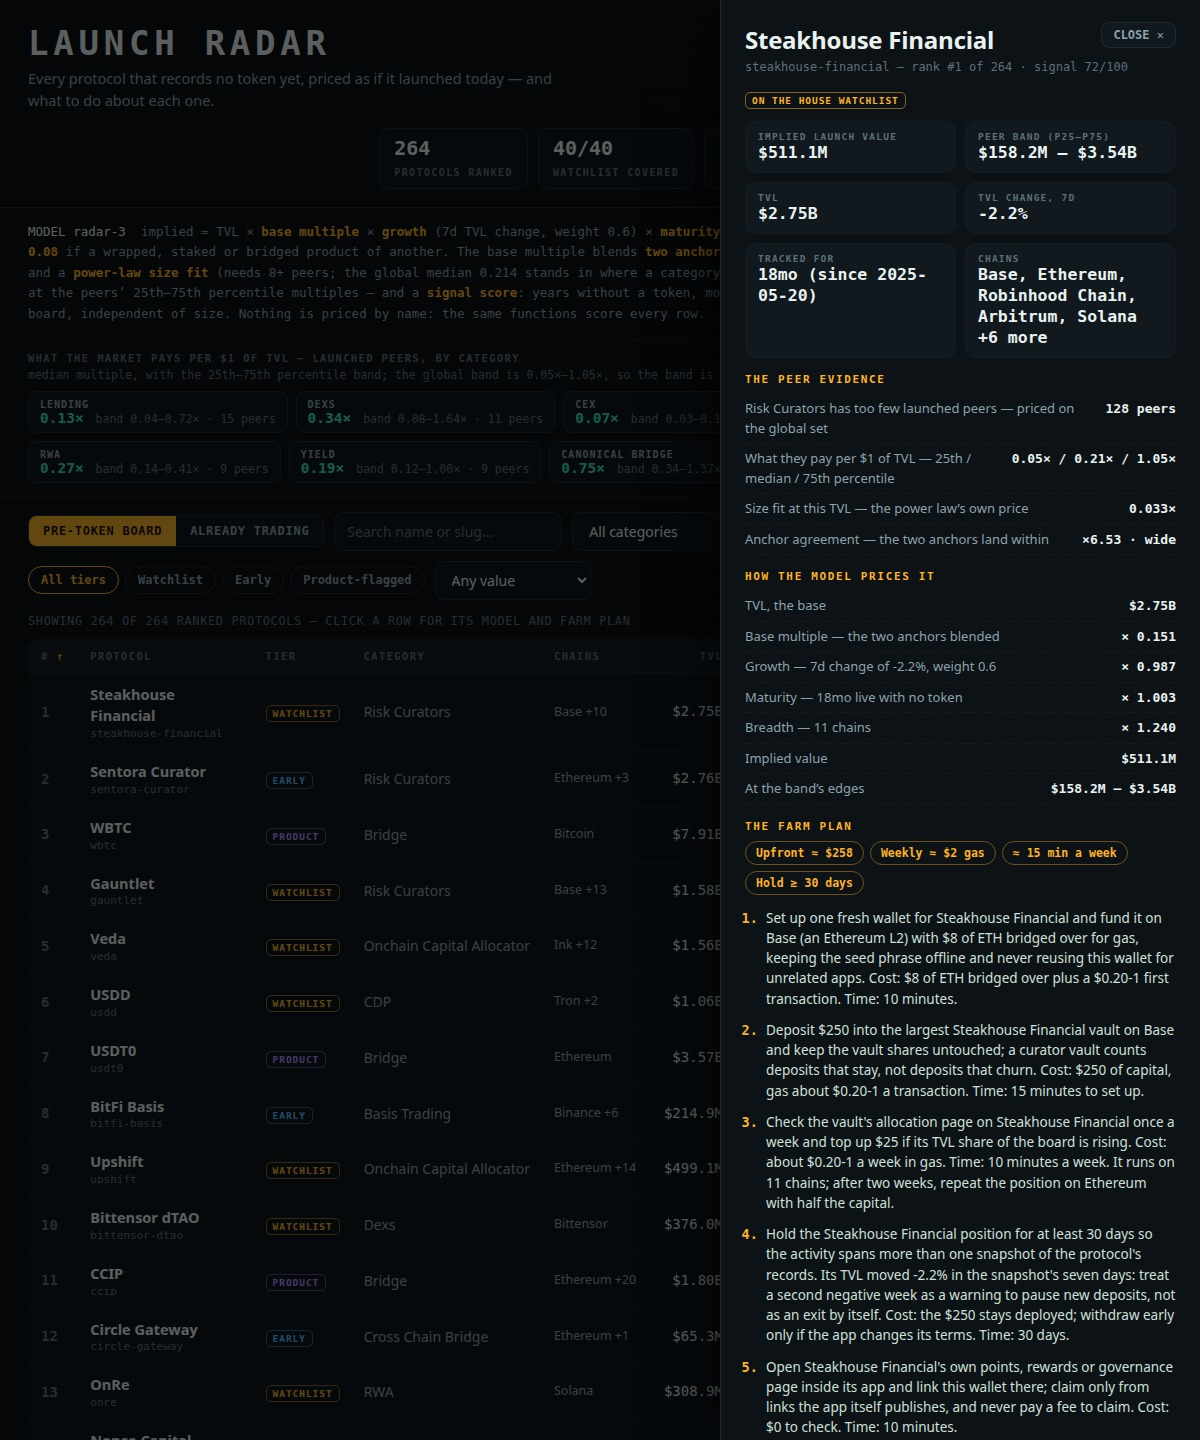
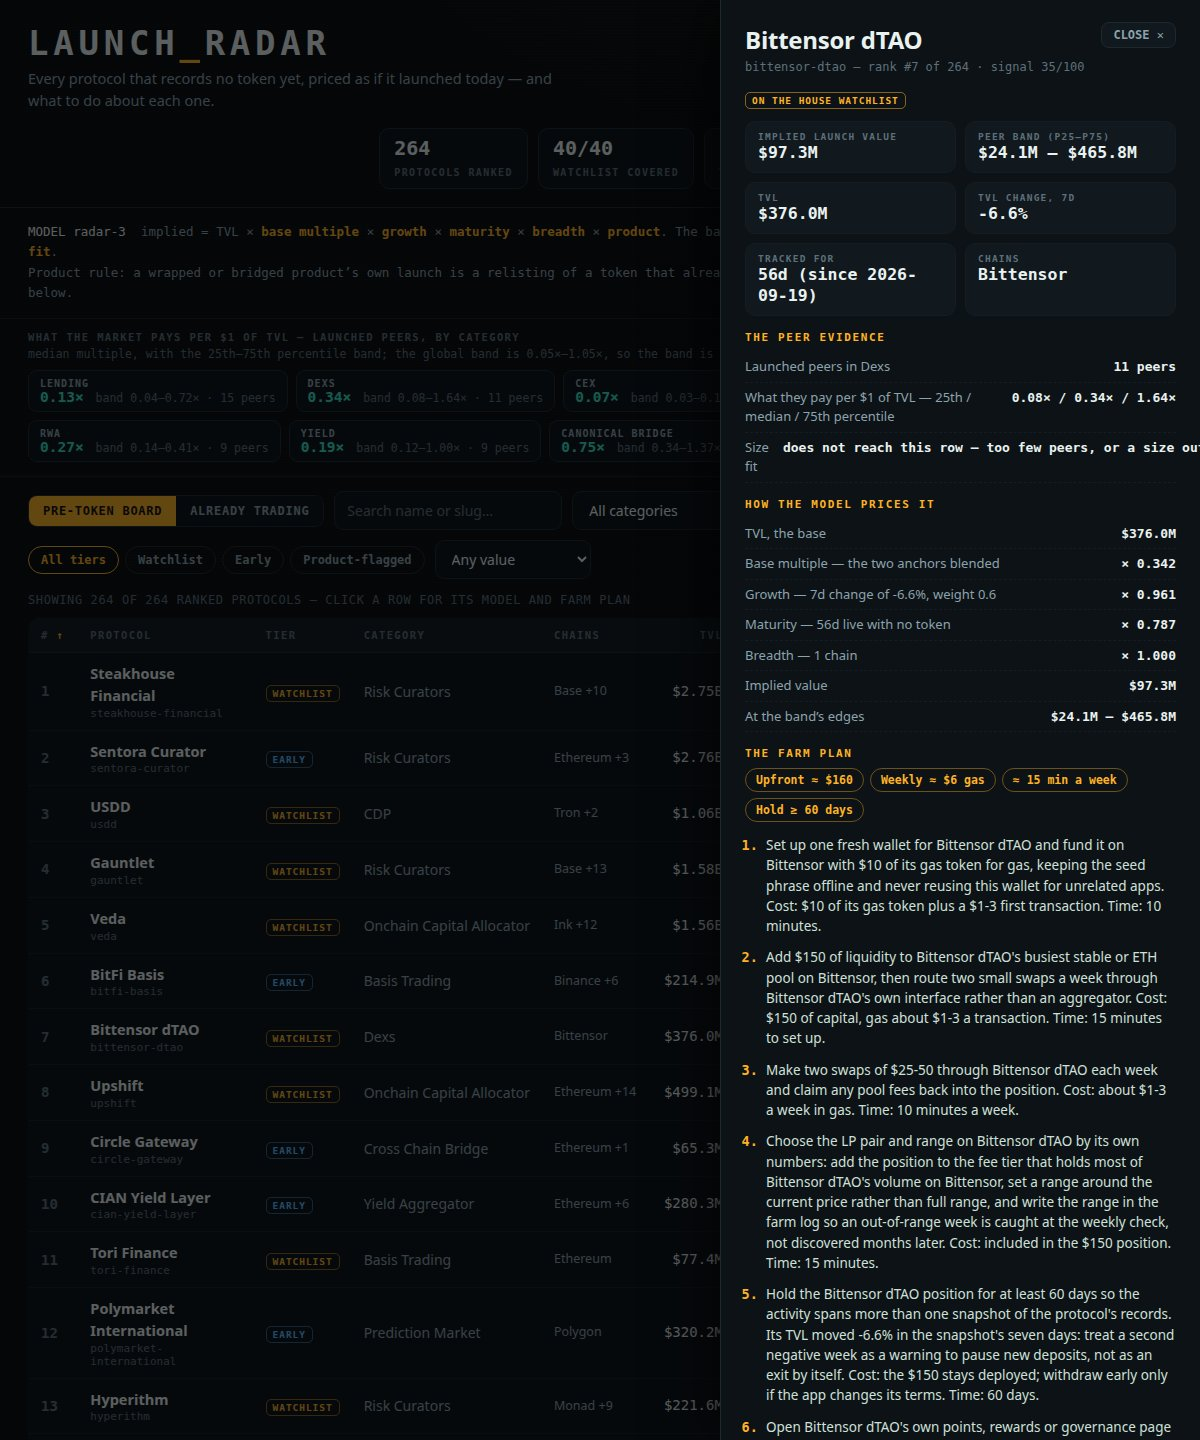
Screenshots: four shots (square board, watchlist detail with category peers, watchlist filter, Already trading), recompressed under 260 KB each

diff --git a/dashboard/app.js b/dashboard/app.js
@@ -57,10 +57,10 @@
        "How every price is made" appendix below the board — */
   $('modelbar').innerHTML =
     '<span class="fx">MODEL ' + esc(D.model_version) + '</span> &nbsp;implied = TVL &times; <b>base multiple</b> &times; <b>growth</b> &times; ' +
-    '<b>maturity</b> &times; <b>breadth</b> &times; <b>product</b>. The base blends two anchors \u2014 the launched peers\u2019 <b>median mcap/TVL</b> ' +
-    'and a <b>power-law size fit</b> \u2014 discounted when the anchors disagree.<br>' +
+    '<b>maturity</b> &times; <b>breadth</b> &times; <b>product</b>. The base blends the peers\u2019 <b>median mcap/TVL</b> ' +
+    'and a <b>power-law size fit</b>.<br>' +
     'Product rule: a wrapped or bridged product\u2019s own launch is a relisting of a token that already trades, priced at <b>' +
-    (M.product_multiple * 100) + '% of its peer value</b>. Exact formulas and the peer table: <b>How every price is made</b>, below the board.';
+    (M.product_multiple * 100) + '% of its peer value</b>. Full formulas below.';
 
   /* — the evidence strip: what the market pays per $1 of TVL, by category — */
   (function renderEvidence() {

diff --git a/main.ts b/main.ts
@@ -72,7 +72,7 @@ function copyFiles(from: string, to: string): string[] {
 const dashFiles = copyFiles(join(here, 'dashboard'), join(out, 'dashboard'));
 const shots = copyFiles(join(here, 'screenshots'), join(out, 'screenshots'));
 if (shots.length < 3) {
-  process.stderr.write(`launch radar: screenshots/ holds ${shots.length} image${shots.length === 1 ? '' : 's'}: hand in 3, the board, a detail view and a filtered view\n`);
+  process.stderr.write(`launch radar: screenshots/ holds ${shots.length} image${shots.length === 1 ? '' : 's'}: hand in 3 or 4 — the board, a detail view, a filtered view and the Already trading view\n`);
   process.exit(1);
 }
 for (const name of shots) {
